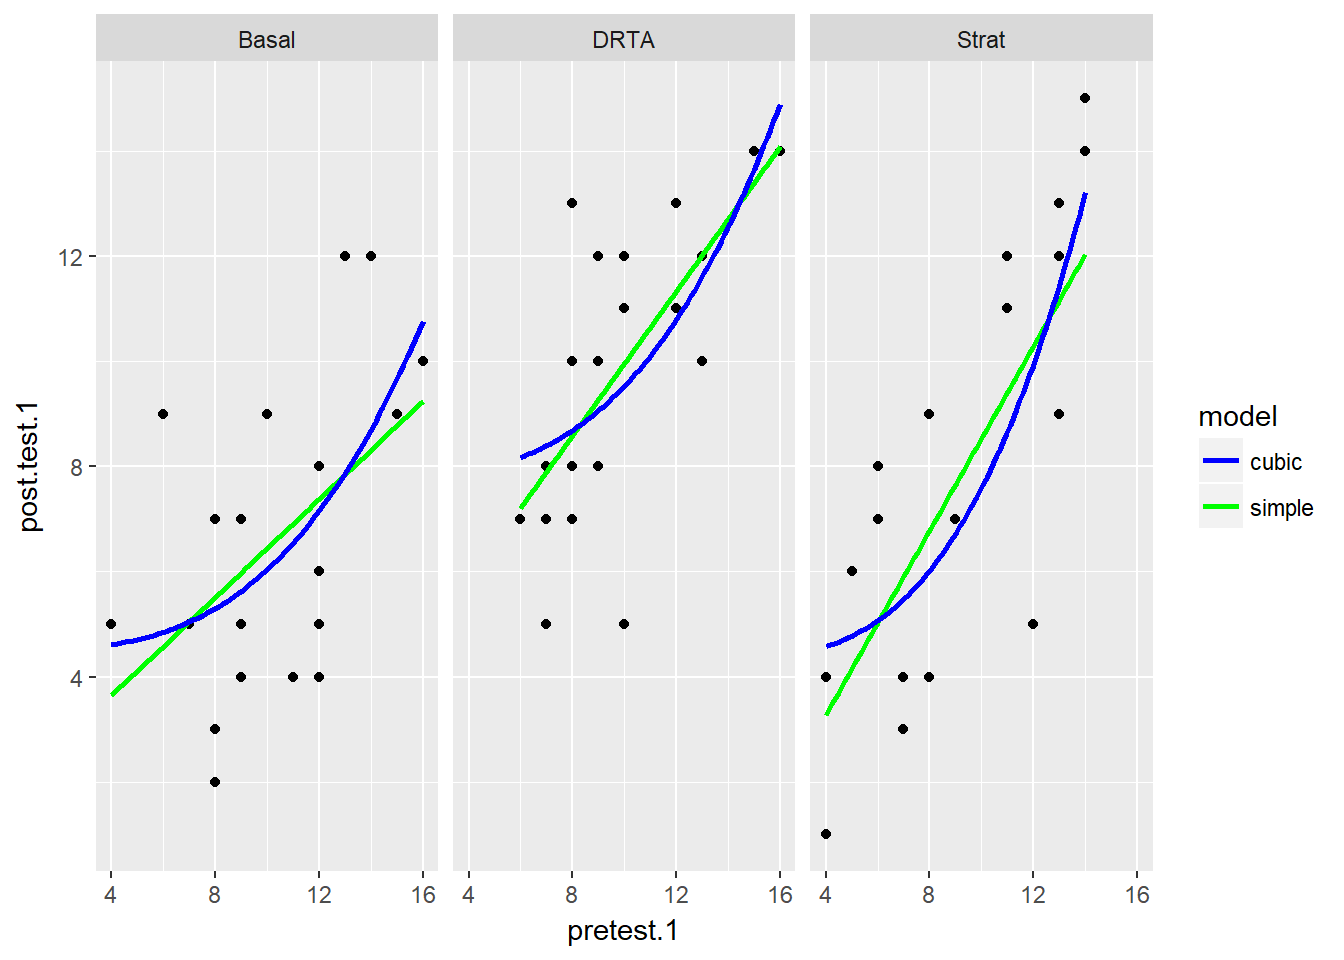
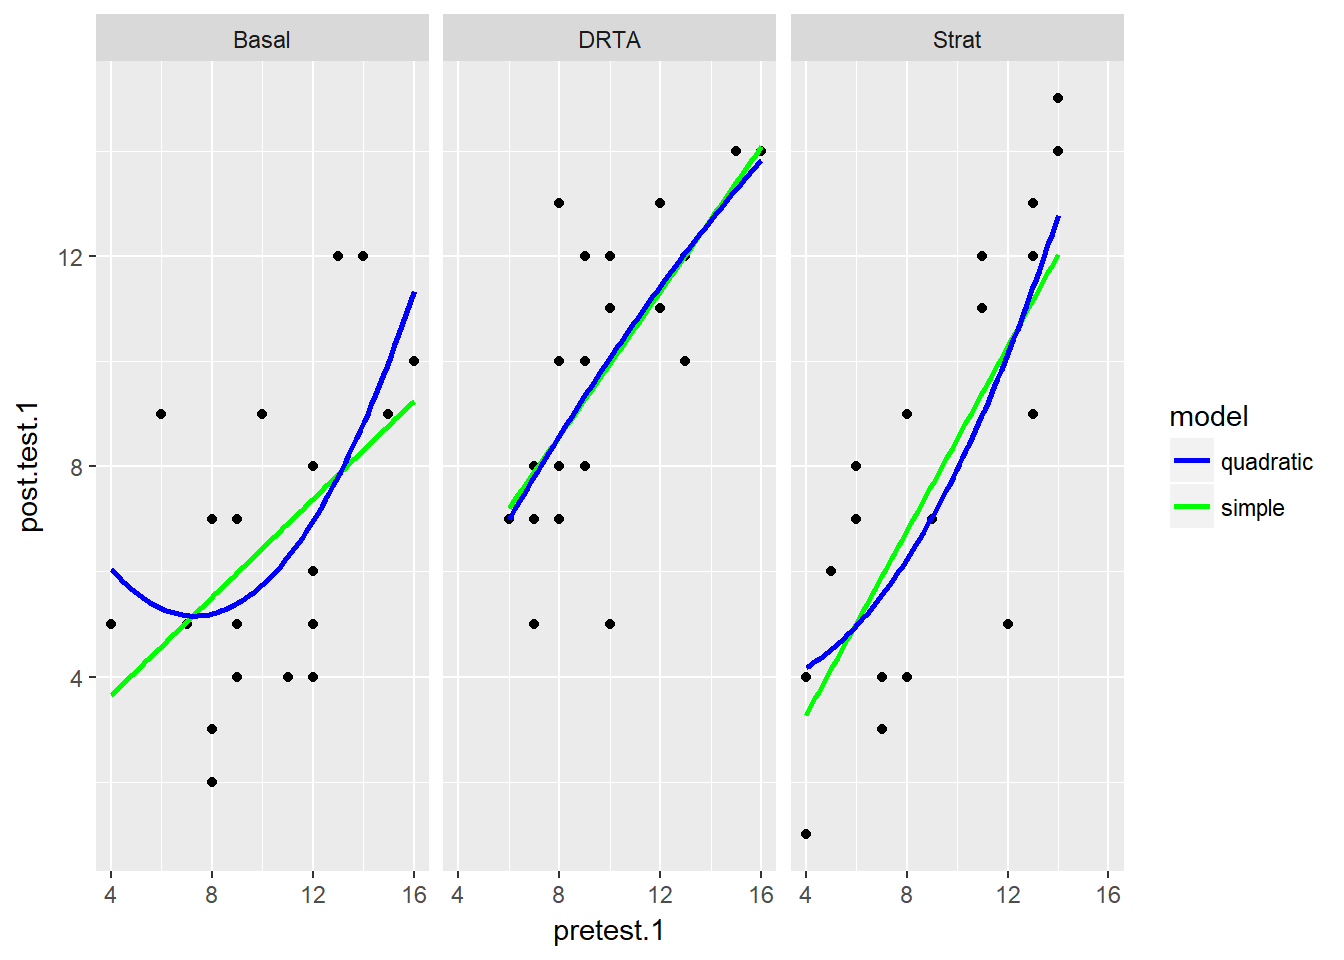
some small edits to latest post and about.

diff --git a/public/post/working-more-with-the-baumann-dataset/index.html b/public/post/working-more-with-the-baumann-dataset/index.html
@@ -59,8 +59,8 @@
     
 
 
-<p>As a way to continue to teach myself statistics and learn new techniques (including some machine learning methods I am <em>very</em> unfamiliar with), I am taking Stanford’s self-paced <a href="https://lagunita.stanford.edu/courses/HumanitiesSciences/StatLearning/Winter2016/about">statistical learning course</a>. You can find the textbook for the course here; I have found it extremely insightful so far, seeing as the authors are some of the pioneers of modern data science methods today.</p>
-<p>In it, they talk in-depth about the bias-variance trade off. In general, more flexible models have higher variance; that is, models that fit training data too closely (highly flexible models) will vary considerably given new data. This is the case of <em>overfitting</em>, where the model is picking up random noise rather than the true signal or function. However, more flexible models have less bias, where bias refers to the error introduced by approximating a complicated relationship with a model that is far too simplistic. Ordinary least squares regression is typically used as the overly simplistic model that contains high bias.</p>
+<p>As a way to continue to teach myself statistics and learn new techniques (including some machine learning methods I am <em>very</em> unfamiliar with), I am taking Stanford’s self-paced <a href="https://lagunita.stanford.edu/courses/HumanitiesSciences/StatLearning/Winter2016/about">statistical learning course</a>. You can find the textbook for the course <a href="http://www-bcf.usc.edu/~gareth/ISL/">here</a>; I have found it extremely insightful so far, seeing as the authors are some of the pioneers of modern data science methods today.</p>
+<p>In it, they talk in-depth about the bias-variance trade off. In general, more flexible models have higher variance; that is, models that fit training data too closely (highly flexible models) will vary considerably given new data. This is the case of <em>overfitting</em>, where the model is picking up random noise rather than the true signal or function. However, more flexible models have less bias, where bias refers to the error introduced by approximating a complicated relationship with a model that is far too simplistic. Ordinary least squares regression is typically used as the overly simplistic model that has high bias.</p>
 <div id="comparing-two-models" class="section level3">
 <h3>Comparing two models</h3>
 <p>For this post, I will again use the <code>Baumann</code> dataset from the <code>car</code> package, as the data are test score data from an educational intervention.</p>
@@ -87,17 +87,20 @@ baumann</code></pre>
 ##  9 Basal        12         3           8           7          33
 ## 10 Basal         8         8           7           7          39
 ## # ... with 56 more rows</code></pre>
-<p>Below I make three plots, one for each intervention, and fit two models for each group: a simple linear regression in blue, and another linear regression with a cubic term.</p>
+<p>Below I make three plots, one for each intervention, and fit two models for each group: a simple linear regression in blue, and another linear regression with a quadratic term.</p>
 <pre class="r"><code>baumann %&gt;% 
   ggplot(aes(x = pretest.1, y = post.test.1)) +
   geom_point() +
   geom_smooth(method = &quot;lm&quot;, se = FALSE, aes(color = &quot;simple&quot;)) +
-  geom_smooth(method = &quot;lm&quot;, formula = y ~ I(x^3), se = FALSE, aes(color = &quot;cubic&quot;)) +
+  geom_smooth(method = &quot;lm&quot;, formula = y ~ x + I(x^2), se = FALSE, aes(color = &quot;quadratic&quot;)) +
   facet_wrap(~ group) +
   scale_colour_manual(name = &quot;model&quot;, values=c(&quot;blue&quot;, &quot;green&quot;))</code></pre>
 <p><img src="../../post/2018-12-29-working-more-with-the-baumann-dataset_files/figure-html/unnamed-chunk-2-1.png" width="672" /></p>
-<p>It looks like for the most part, the simple regression does no worse than the cubic term, but in the last panel for the <code>Strat</code> intervention, the relationship may be more cubic. How would we compare these models more closely?</p>
-<p>I think using the <code>purrr</code> and <code>broom</code> packages can really behoove us. If did this all manually, I would have to fit 2 x 3 = 6 separate models and compare the <code>summary</code> outputs for each. Instead, with the <code>tidyverse</code> packages, I can nest the data, fit the models and then unnest and use the <code>glance</code> function to analyze the model fit statistics in one easy-to-read table.</p>
+<p>It looks like for the most part, the simple regression does no worse than the quadratic term, but in the last panel for the <code>Strat</code> intervention, the relationship may be more curved. How would we compare these models more closely?</p>
+</div>
+<div id="nest-fit-unnest" class="section level3">
+<h3>Nest-Fit-Unnest</h3>
+<p>I think using the <code>purrr</code> and <code>broom</code> packages can really benefit us. Here, I’m borrowing from one of <code>broom</code>’s <a href="https://cran.r-project.org/web/packages/broom/vignettes/broom_and_dplyr.html">vignettes</a> called “broom and dplyr.” In it, they recommend a <code>nest-fit-unnest</code> workflow to create multiple simple models for comparison. If I fit all the models manually, I would have to fit 2 x 3 = 6 separate models and compare the <code>summary</code> outputs for each. Instead, with the <code>tidyverse</code> packages, I can nest the data, fit the models and then unnest and use the <code>glance</code> function to analyze the model fit statistics in one easy-to-read table.</p>
 <p>The simple linear model:</p>
 <pre class="r"><code>#simple model
 lm.1 &lt;- baumann %&gt;%
@@ -110,12 +113,12 @@ lm.1 &lt;- baumann %&gt;%
   unnest(glance, .drop = TRUE) %&gt;% 
   select(c(1:3, 5:7)) #just selecting the relevant statistics from glance.
 
-#cubic model
+#quadratic model
 lm.2 &lt;- baumann %&gt;%
   nest(-group) %&gt;% 
   mutate(
-    model = &quot;cubic&quot;,
-    fit = map(data, ~ lm(post.test.1 ~ I(pretest.1^3), data = .x)),
+    model = &quot;quadratic&quot;,
+    fit = map(data, ~ lm(post.test.1 ~ pretest.1 + I(pretest.1^2), data = .x)),
     glance = map(fit, glance)
   ) %&gt;% 
   unnest(glance, .drop = TRUE) %&gt;% 
@@ -125,26 +128,26 @@ lm.2 &lt;- baumann %&gt;%
 models &lt;- rbind(lm.1, lm.2)
 models</code></pre>
 <pre><code>## # A tibble: 6 x 6
-##   group model  r.squared sigma statistic   p.value
-##   &lt;fct&gt; &lt;chr&gt;      &lt;dbl&gt; &lt;dbl&gt;     &lt;dbl&gt;     &lt;dbl&gt;
-## 1 Basal simple     0.251  2.45      6.70 0.0176   
-## 2 DRTA  simple     0.461  2.05     17.1  0.000512 
-## 3 Strat simple     0.557  2.68     25.1  0.0000667
-## 4 Basal cubic      0.326  2.33      9.69 0.00547  
-## 5 DRTA  cubic      0.426  2.12     14.8  0.000995 
-## 6 Strat cubic      0.575  2.62     27.1  0.0000433</code></pre>
+##   group model     r.squared sigma statistic   p.value
+##   &lt;fct&gt; &lt;chr&gt;         &lt;dbl&gt; &lt;dbl&gt;     &lt;dbl&gt;     &lt;dbl&gt;
+## 1 Basal simple        0.251  2.45      6.70 0.0176   
+## 2 DRTA  simple        0.461  2.05     17.1  0.000512 
+## 3 Strat simple        0.557  2.68     25.1  0.0000667
+## 4 Basal quadratic     0.349  2.35      5.10 0.0169   
+## 5 DRTA  quadratic     0.463  2.10      8.17 0.00274  
+## 6 Strat quadratic     0.572  2.70     12.7  0.000316</code></pre>
 <p>Why not plot some of these outputs for easier interpretation?</p>
 <pre class="r"><code>models %&gt;% 
   ggplot(aes(x = group, y = r.squared, fill = fct_rev(model))) +
   geom_bar(stat = &quot;identity&quot;, position = &quot;dodge&quot;) +
-  scale_fill_manual(&quot;model&quot;, values = c(&quot;cubic&quot; = &quot;green&quot;, &quot;simple&quot; = &quot;blue&quot;))</code></pre>
+  scale_fill_manual(&quot;model&quot;, values = c(&quot;quadratic&quot; = &quot;green&quot;, &quot;simple&quot; = &quot;blue&quot;))</code></pre>
 <p><img src="../../post/2018-12-29-working-more-with-the-baumann-dataset_files/figure-html/unnamed-chunk-4-1.png" width="672" /></p>
 <pre class="r"><code>models %&gt;% 
   ggplot(aes(x = group, y = sigma, fill = fct_rev(model))) +
   geom_bar(stat = &quot;identity&quot;, position = &quot;dodge&quot;) +
-  scale_fill_manual(&quot;model&quot;, values = c(&quot;cubic&quot; = &quot;green&quot;, &quot;simple&quot; = &quot;blue&quot;))</code></pre>
+  scale_fill_manual(&quot;model&quot;, values = c(&quot;quadratic&quot; = &quot;green&quot;, &quot;simple&quot; = &quot;blue&quot;))</code></pre>
 <p><img src="../../post/2018-12-29-working-more-with-the-baumann-dataset_files/figure-html/unnamed-chunk-5-1.png" width="672" /></p>
-<p>We can see briefly that the cubic model does well with <code>Strat</code> group in particular (like we saw in the initial scatterplot), but does not fit the data well for the <code>DRTA</code> intervention.</p>
+<p>We can see briefly that the quadratic model does well with <code>Strat</code> group in particular (like we saw in the initial scatterplot), but does not fit the data well for the <code>DRTA</code> intervention. However, the sigma (or residual standard error) for the strat quadratic model was slightly higher, so we may not want that tradeoff.</p>
 </div>
 
   </div>

diff --git a/content/post/2018-12-29-working-more-with-the-baumann-dataset.html b/content/post/2018-12-29-working-more-with-the-baumann-dataset.html
@@ -12,8 +12,8 @@ tags:
 
 
 
-<p>As a way to continue to teach myself statistics and learn new techniques (including some machine learning methods I am <em>very</em> unfamiliar with), I am taking Stanford’s self-paced <a href="https://lagunita.stanford.edu/courses/HumanitiesSciences/StatLearning/Winter2016/about">statistical learning course</a>. You can find the textbook for the course here; I have found it extremely insightful so far, seeing as the authors are some of the pioneers of modern data science methods today.</p>
-<p>In it, they talk in-depth about the bias-variance trade off. In general, more flexible models have higher variance; that is, models that fit training data too closely (highly flexible models) will vary considerably given new data. This is the case of <em>overfitting</em>, where the model is picking up random noise rather than the true signal or function. However, more flexible models have less bias, where bias refers to the error introduced by approximating a complicated relationship with a model that is far too simplistic. Ordinary least squares regression is typically used as the overly simplistic model that contains high bias.</p>
+<p>As a way to continue to teach myself statistics and learn new techniques (including some machine learning methods I am <em>very</em> unfamiliar with), I am taking Stanford’s self-paced <a href="https://lagunita.stanford.edu/courses/HumanitiesSciences/StatLearning/Winter2016/about">statistical learning course</a>. You can find the textbook for the course <a href="http://www-bcf.usc.edu/~gareth/ISL/">here</a>; I have found it extremely insightful so far, seeing as the authors are some of the pioneers of modern data science methods today.</p>
+<p>In it, they talk in-depth about the bias-variance trade off. In general, more flexible models have higher variance; that is, models that fit training data too closely (highly flexible models) will vary considerably given new data. This is the case of <em>overfitting</em>, where the model is picking up random noise rather than the true signal or function. However, more flexible models have less bias, where bias refers to the error introduced by approximating a complicated relationship with a model that is far too simplistic. Ordinary least squares regression is typically used as the overly simplistic model that has high bias.</p>
 <div id="comparing-two-models" class="section level3">
 <h3>Comparing two models</h3>
 <p>For this post, I will again use the <code>Baumann</code> dataset from the <code>car</code> package, as the data are test score data from an educational intervention.</p>
@@ -40,17 +40,20 @@ baumann</code></pre>
 ##  9 Basal        12         3           8           7          33
 ## 10 Basal         8         8           7           7          39
 ## # ... with 56 more rows</code></pre>
-<p>Below I make three plots, one for each intervention, and fit two models for each group: a simple linear regression in blue, and another linear regression with a cubic term.</p>
+<p>Below I make three plots, one for each intervention, and fit two models for each group: a simple linear regression in blue, and another linear regression with a quadratic term.</p>
 <pre class="r"><code>baumann %&gt;% 
   ggplot(aes(x = pretest.1, y = post.test.1)) +
   geom_point() +
   geom_smooth(method = &quot;lm&quot;, se = FALSE, aes(color = &quot;simple&quot;)) +
-  geom_smooth(method = &quot;lm&quot;, formula = y ~ I(x^3), se = FALSE, aes(color = &quot;cubic&quot;)) +
+  geom_smooth(method = &quot;lm&quot;, formula = y ~ x + I(x^2), se = FALSE, aes(color = &quot;quadratic&quot;)) +
   facet_wrap(~ group) +
   scale_colour_manual(name = &quot;model&quot;, values=c(&quot;blue&quot;, &quot;green&quot;))</code></pre>
 <p><img src="/post/2018-12-29-working-more-with-the-baumann-dataset_files/figure-html/unnamed-chunk-2-1.png" width="672" /></p>
-<p>It looks like for the most part, the simple regression does no worse than the cubic term, but in the last panel for the <code>Strat</code> intervention, the relationship may be more cubic. How would we compare these models more closely?</p>
-<p>I think using the <code>purrr</code> and <code>broom</code> packages can really behoove us. If did this all manually, I would have to fit 2 x 3 = 6 separate models and compare the <code>summary</code> outputs for each. Instead, with the <code>tidyverse</code> packages, I can nest the data, fit the models and then unnest and use the <code>glance</code> function to analyze the model fit statistics in one easy-to-read table.</p>
+<p>It looks like for the most part, the simple regression does no worse than the quadratic term, but in the last panel for the <code>Strat</code> intervention, the relationship may be more curved. How would we compare these models more closely?</p>
+</div>
+<div id="nest-fit-unnest" class="section level3">
+<h3>Nest-Fit-Unnest</h3>
+<p>I think using the <code>purrr</code> and <code>broom</code> packages can really benefit us. Here, I’m borrowing from one of <code>broom</code>’s <a href="https://cran.r-project.org/web/packages/broom/vignettes/broom_and_dplyr.html">vignettes</a> called “broom and dplyr.” In it, they recommend a <code>nest-fit-unnest</code> workflow to create multiple simple models for comparison. If I fit all the models manually, I would have to fit 2 x 3 = 6 separate models and compare the <code>summary</code> outputs for each. Instead, with the <code>tidyverse</code> packages, I can nest the data, fit the models and then unnest and use the <code>glance</code> function to analyze the model fit statistics in one easy-to-read table.</p>
 <p>The simple linear model:</p>
 <pre class="r"><code>#simple model
 lm.1 &lt;- baumann %&gt;%
@@ -63,12 +66,12 @@ lm.1 &lt;- baumann %&gt;%
   unnest(glance, .drop = TRUE) %&gt;% 
   select(c(1:3, 5:7)) #just selecting the relevant statistics from glance.
 
-#cubic model
+#quadratic model
 lm.2 &lt;- baumann %&gt;%
   nest(-group) %&gt;% 
   mutate(
-    model = &quot;cubic&quot;,
-    fit = map(data, ~ lm(post.test.1 ~ I(pretest.1^3), data = .x)),
+    model = &quot;quadratic&quot;,
+    fit = map(data, ~ lm(post.test.1 ~ pretest.1 + I(pretest.1^2), data = .x)),
     glance = map(fit, glance)
   ) %&gt;% 
   unnest(glance, .drop = TRUE) %&gt;% 
@@ -78,24 +81,24 @@ lm.2 &lt;- baumann %&gt;%
 models &lt;- rbind(lm.1, lm.2)
 models</code></pre>
 <pre><code>## # A tibble: 6 x 6
-##   group model  r.squared sigma statistic   p.value
-##   &lt;fct&gt; &lt;chr&gt;      &lt;dbl&gt; &lt;dbl&gt;     &lt;dbl&gt;     &lt;dbl&gt;
-## 1 Basal simple     0.251  2.45      6.70 0.0176   
-## 2 DRTA  simple     0.461  2.05     17.1  0.000512 
-## 3 Strat simple     0.557  2.68     25.1  0.0000667
-## 4 Basal cubic      0.326  2.33      9.69 0.00547  
-## 5 DRTA  cubic      0.426  2.12     14.8  0.000995 
-## 6 Strat cubic      0.575  2.62     27.1  0.0000433</code></pre>
+##   group model     r.squared sigma statistic   p.value
+##   &lt;fct&gt; &lt;chr&gt;         &lt;dbl&gt; &lt;dbl&gt;     &lt;dbl&gt;     &lt;dbl&gt;
+## 1 Basal simple        0.251  2.45      6.70 0.0176   
+## 2 DRTA  simple        0.461  2.05     17.1  0.000512 
+## 3 Strat simple        0.557  2.68     25.1  0.0000667
+## 4 Basal quadratic     0.349  2.35      5.10 0.0169   
+## 5 DRTA  quadratic     0.463  2.10      8.17 0.00274  
+## 6 Strat quadratic     0.572  2.70     12.7  0.000316</code></pre>
 <p>Why not plot some of these outputs for easier interpretation?</p>
 <pre class="r"><code>models %&gt;% 
   ggplot(aes(x = group, y = r.squared, fill = fct_rev(model))) +
   geom_bar(stat = &quot;identity&quot;, position = &quot;dodge&quot;) +
-  scale_fill_manual(&quot;model&quot;, values = c(&quot;cubic&quot; = &quot;green&quot;, &quot;simple&quot; = &quot;blue&quot;))</code></pre>
+  scale_fill_manual(&quot;model&quot;, values = c(&quot;quadratic&quot; = &quot;green&quot;, &quot;simple&quot; = &quot;blue&quot;))</code></pre>
 <p><img src="/post/2018-12-29-working-more-with-the-baumann-dataset_files/figure-html/unnamed-chunk-4-1.png" width="672" /></p>
 <pre class="r"><code>models %&gt;% 
   ggplot(aes(x = group, y = sigma, fill = fct_rev(model))) +
   geom_bar(stat = &quot;identity&quot;, position = &quot;dodge&quot;) +
-  scale_fill_manual(&quot;model&quot;, values = c(&quot;cubic&quot; = &quot;green&quot;, &quot;simple&quot; = &quot;blue&quot;))</code></pre>
+  scale_fill_manual(&quot;model&quot;, values = c(&quot;quadratic&quot; = &quot;green&quot;, &quot;simple&quot; = &quot;blue&quot;))</code></pre>
 <p><img src="/post/2018-12-29-working-more-with-the-baumann-dataset_files/figure-html/unnamed-chunk-5-1.png" width="672" /></p>
-<p>We can see briefly that the cubic model does well with <code>Strat</code> group in particular (like we saw in the initial scatterplot), but does not fit the data well for the <code>DRTA</code> intervention.</p>
+<p>We can see briefly that the quadratic model does well with <code>Strat</code> group in particular (like we saw in the initial scatterplot), but does not fit the data well for the <code>DRTA</code> intervention. However, the sigma (or residual standard error) for the strat quadratic model was slightly higher, so we may not want that tradeoff.</p>
 </div>

diff --git a/public/about/index.html b/public/about/index.html
@@ -60,7 +60,7 @@
 
 <h3 id="hello">Hello!</h3>
 
-<p>My name is Pete Talbert, and I work as a data analyst in Minnesota. I have only been doing this line of work for 3 years, and I have worked exclusively in education settings, both higher ed and K-12.</p>
+<p>My name is Pete Talbert, and I work as a data analyst in Minnesota. I have only been doing this line of work for a little over 3 years, and I have worked exclusively in educational settings, both higher ed and K-12. Being fairly new to the world of data and statistics, I felt that starting a blog would allow me to document my learning while at the same time help other beginners.</p>
 
 <h3 id="education">Education</h3>
 
@@ -69,18 +69,14 @@
 &nbsp;&nbsp;&nbsp;&nbsp;&nbsp;&nbsp;Minor in Educational Psychology, Quantitative Methods in Education (QME)<br />
 &nbsp;&nbsp;&nbsp;&nbsp;&nbsp;&nbsp;<em>University of Minnesota - Twin Cities</em></p>
 
-<p><strong>B.A. in Philosophy, 2010</strong><br />
-&nbsp;&nbsp;&nbsp;&nbsp;&nbsp;&nbsp;<em>University of Minnesota - Twin Cities</em></p>
-
 <h3 id="purpose-of-site">Purpose of site</h3>
 
-<p>I hope this site can help others who are learning data analysis, are interested in education data, or both. Most posts will focus on learning tools and programming languages like R, SQL, and Tableau, but I hope they will touch on topics in education as well. I am especially interested in educational measurement and how assessment can improve student outcomes. So there may be some fundamentals of measurement stuff here as well.</p>
+<p>I hope this site can help others who are learning data analysis, are interested in education data, or both. Most posts will focus on tools and programming techniques in R, SQL, and Tableau, but I hope they will touch on topics in education as well. I am especially interested in educational measurement and how assessment can improve student outcomes, so there may be some fundamentals of measurement stuff here as well.</p>
 
-<p>Lastly, I try to remember this Bible verse whenever I&rsquo;m learning something new. Cheers!</p>
+<p>Lastly, I try to remember this Bible verse whenever I am learning something new. Cheers!</p>
 
 <blockquote>
-<p>Whoever loves discipline loves knowledge,
-    but he who hates reproof is stupid (Proverbs 12:1 ESV).</p>
+<p>Whoever loves discipline loves knowledge, but he who hates reproof is stupid (Proverbs 12:1, ESV).</p>
 </blockquote>
 
   </div>

diff --git a/content/about.md b/content/about.md
@@ -5,7 +5,7 @@ date = "2018-11-13"
 
 ### Hello!
 
-My name is Pete Talbert, and I work as a data analyst in Minnesota. I have only been doing this line of work for 3 years, and I have worked exclusively in education settings, both higher ed and K-12.
+My name is Pete Talbert, and I work as a data analyst in Minnesota. I have only been doing this line of work for a little over 3 years, and I have worked exclusively in educational settings, both higher ed and K-12. Being fairly new to the world of data and statistics, I felt that starting a blog would allow me to document my learning while at the same time help other beginners.
 
 ### Education
 
@@ -14,15 +14,10 @@ My name is Pete Talbert, and I work as a data analyst in Minnesota. I have only 
 &nbsp;&nbsp;&nbsp;&nbsp;&nbsp;&nbsp;Minor in Educational Psychology, Quantitative Methods in Education (QME)  
 &nbsp;&nbsp;&nbsp;&nbsp;&nbsp;&nbsp;*University of Minnesota - Twin Cities*
 
-
-**B.A. in Philosophy, 2010**  
-&nbsp;&nbsp;&nbsp;&nbsp;&nbsp;&nbsp;*University of Minnesota - Twin Cities*
-
 ### Purpose of site
 
-I hope this site can help others who are learning data analysis, are interested in education data, or both. Most posts will focus on learning tools and programming languages like R, SQL, and Tableau, but I hope they will touch on topics in education as well. I am especially interested in educational measurement and how assessment can improve student outcomes. So there may be some fundamentals of measurement stuff here as well.
+I hope this site can help others who are learning data analysis, are interested in education data, or both. Most posts will focus on tools and programming techniques in R, SQL, and Tableau, but I hope they will touch on topics in education as well. I am especially interested in educational measurement and how assessment can improve student outcomes, so there may be some fundamentals of measurement stuff here as well.
 
-Lastly, I try to remember this Bible verse whenever I'm learning something new. Cheers!
+Lastly, I try to remember this Bible verse whenever I am learning something new. Cheers!
 
-> Whoever loves discipline loves knowledge,
-    but he who hates reproof is stupid (Proverbs 12:1 ESV).
+> Whoever loves discipline loves knowledge, but he who hates reproof is stupid (Proverbs 12:1, ESV).
